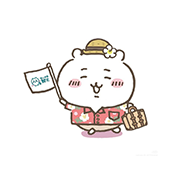
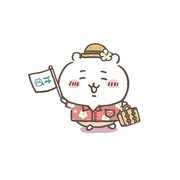
아이콘 변경

Changed region(s): [[0.1111, 0.1944, 0.8333, 0.7778], [0.3611, 0.3611, 0.5, 0.5]]

diff --git a/index.html b/index.html
@@ -10,7 +10,7 @@
 <meta name="description" content="2026년 11월 7일~10일 여섯 식구 첫 해외여행 · 대만 3박 4일 안내서">
 <link rel="manifest" href="manifest.webmanifest">
 <link rel="icon" href="icon-192.png">
-<link rel="apple-touch-icon" href="apple-touch-icon.png">
+<link rel="apple-touch-icon" href="apple-touch-icon.png?v=3">
 <meta property="og:type" content="website">
 <meta property="og:site_name" content="여섯 식구 첫 해외여행">
 <meta property="og:title" content="여섯 식구 첫 해외여행 · 대만 3박 4일 안내서">
@@ -1281,8 +1281,8 @@ function buildOvMap(solo,cap){const w=el('div','ovm'+(solo?' solo':''));w.datase
   /* pinch / drag zoom */
   let cq=0;const OVMAX=80,vp=w.querySelector('.ovm-vp'),inn=w.querySelector('.ovm-in'),svg=w.querySelector('.ovsvg');let sc=1,tx=0,ty=0;const pts=new Map();let pin=null,last=null,lastTap=0;
   const clamp=()=>{const W=vp.clientWidth,H=vp.clientHeight;sc=Math.min(OVMAX,Math.max(1,sc));tx=Math.min(0,Math.max(W-W*sc,tx));ty=Math.min(0,Math.max(H-H*sc,ty))};
-  let gest=false,csc=1,ctx=0,cty=0,wt=0;
-  const commit=()=>{const W=vp.clientWidth||1,H=vp.clientHeight||1;csc=sc;ctx=tx;cty=ty;inn.style.transform='';svg.setAttribute('viewBox',`${(-tx/(W*sc)*OVX.W).toFixed(2)} ${(-ty/(H*sc)*OVX.H).toFixed(2)} ${(OVX.W/sc).toFixed(2)} ${(OVX.H/sc).toFixed(2)}`);inn.style.setProperty('--k',(ovF(sc)/sc).toFixed(4));{const pu=W/OVX.W*sc;inn.style.setProperty('--ka',(9/(32*pu)).toFixed(5));inn.style.setProperty('--kl',(1/pu).toFixed(5));svg.querySelectorAll('g.r[data-len]').forEach(g=>{const L=g.dataset.len*pu;g.dataset.n=L<150?'1':L<360?'2':'3'})}inn.style.setProperty('--dq',Math.min(1,Math.max(0,(sc-22)/6)).toFixed(3));inn.classList.toggle('lo',!solo&&sc<1.8);inn.style.setProperty('--dz',Math.min(1,Math.max(0,(sc-2.6)/1.8)).toFixed(3));inn.style.setProperty('--dp',Math.min(1,Math.max(0,(sc-6)/2)).toFixed(3));inn.style.setProperty('--dw',Math.min(1,Math.max(0,(sc-11)/3)).toFixed(3));vp.classList.toggle('zoomed',sc>1.01);if(!cq){cq=requestAnimationFrame(()=>{cq=0;ovCollide(w,inn)})}};
+  let gest=false,csc=1,ctx=0,cty=0,wt=0,noCol=false;
+  const commit=()=>{const W=vp.clientWidth||1,H=vp.clientHeight||1;csc=sc;ctx=tx;cty=ty;inn.style.transform='';svg.setAttribute('viewBox',`${(-tx/(W*sc)*OVX.W).toFixed(2)} ${(-ty/(H*sc)*OVX.H).toFixed(2)} ${(OVX.W/sc).toFixed(2)} ${(OVX.H/sc).toFixed(2)}`);inn.style.setProperty('--k',(ovF(sc)/sc).toFixed(4));{const pu=W/OVX.W*sc;inn.style.setProperty('--ka',(9/(32*pu)).toFixed(5));inn.style.setProperty('--kl',(1/pu).toFixed(5));svg.querySelectorAll('g.r[data-len]').forEach(g=>{const L=g.dataset.len*pu;g.dataset.n=L<150?'1':L<360?'2':'3'})}inn.style.setProperty('--dq',Math.min(1,Math.max(0,(sc-22)/6)).toFixed(3));inn.classList.toggle('lo',!solo&&sc<1.8);inn.style.setProperty('--dz',Math.min(1,Math.max(0,(sc-2.6)/1.8)).toFixed(3));inn.style.setProperty('--dp',Math.min(1,Math.max(0,(sc-6)/2)).toFixed(3));inn.style.setProperty('--dw',Math.min(1,Math.max(0,(sc-11)/3)).toFixed(3));vp.classList.toggle('zoomed',sc>1.01);if(!noCol&&!cq){cq=requestAnimationFrame(()=>{cq=0;ovCollide(w,inn)})}};
   let raf=0;const apply=()=>{clamp();if(!gest){if(raf){cancelAnimationFrame(raf);raf=0}commit();return}if(raf)return;raf=requestAnimationFrame(()=>{raf=0;const s2=sc/csc;inn.style.transform=`translate(${(tx-s2*ctx).toFixed(1)}px,${(ty-s2*cty).toFixed(1)}px) scale(${s2.toFixed(4)})`})};
   const endGest=()=>{gest=false;inn.classList.remove('mv');if(raf){cancelAnimationFrame(raf);raf=0}commit()};
   const zoomAt=(f,cx,cy)=>{const ns=Math.min(OVMAX,Math.max(1,sc*f));tx=cx-(cx-tx)*ns/sc;ty=cy-(cy-ty)*ns/sc;sc=ns;apply()};
@@ -1306,10 +1306,10 @@ function buildOvMap(solo,cap){const w=el('div','ovm'+(solo?' solo':''));w.datase
   vp.addEventListener('wheel',e=>{if(!e.ctrlKey&&sc<=1.01&&e.deltaY>0)return;e.preventDefault();gest=true;inn.classList.add('mv');clearTimeout(wt);wt=setTimeout(endGest,180);const [x,y]=rel(e);zoomAt(e.deltaY<0?1.15:1/1.15,x,y)},{passive:false});
   w.querySelectorAll('.ovm-zb button').forEach(b=>b.addEventListener('click',()=>{const W=vp.clientWidth,H=vp.clientHeight;if(b.dataset.z==='0'){flyTo(home.s,W/2-home.cx*W*home.s,H/2-home.cy*H*home.s);return}if(+b.dataset.z>0)zoomAt(2,W/2,H/2);else zoomAt(1/2,W/2,H/2)}));
   let tw=0;const flyTo=(s1,x1,y1)=>{touched=true;const W=vp.clientWidth,H=vp.clientHeight;
-    const s0=sc,x0=tx,y0=ty;cancelAnimationFrame(tw);gest=true;inn.classList.add('mv');const T=performance.now(),D=650;
+    const s0=sc,x0=tx,y0=ty;cancelAnimationFrame(tw);const big=s1/s0>2.5||s0/s1>2.5;if(!big){gest=true;inn.classList.add('mv')}const T=performance.now(),D=big?750:650;
     const step=now=>{const k=Math.min(1,(now-T)/D),e=1-Math.pow(1-k,3);const ls=Math.exp(Math.log(s0)+(Math.log(s1)-Math.log(s0))*e);
-      const f=(ls-s0)/(s1-s0||1);sc=ls;tx=x0+(x1-x0)*(s1===s0?e:f);ty=y0+(y1-y0)*(s1===s0?e:f);clamp();const s2=sc/csc;inn.style.transform=`translate(${(tx-s2*ctx).toFixed(1)}px,${(ty-s2*cty).toFixed(1)}px) scale(${s2.toFixed(4)})`;
-      if(k<1)tw=requestAnimationFrame(step);else endGest()};tw=requestAnimationFrame(step)};
+      const f=(ls-s0)/(s1-s0||1);sc=ls;tx=x0+(x1-x0)*(s1===s0?e:f);ty=y0+(y1-y0)*(s1===s0?e:f);clamp();if(big){if(k<1){noCol=true;commit();noCol=false}else{gest=false;commit()}}else{const s2=sc/csc;inn.style.transform=`translate(${(tx-s2*ctx).toFixed(1)}px,${(ty-s2*cty).toFixed(1)}px) scale(${s2.toFixed(4)})`}
+      if(k<1)tw=requestAnimationFrame(step);else if(!big)endGest()};tw=requestAnimationFrame(step)};
   {const hb=w.querySelector('.ovm-h');if(hb)hb.addEventListener('click',()=>{const W=vp.clientWidth,H=vp.clientHeight;const [hx,hy]=ovP(...OVPT.hotel);const s1=6;flyTo(s1,W/2-hx/OVX.W*W*s1,H/2-hy/OVX.H*H*s1)})}
   return w}
 
@@ -1334,10 +1334,10 @@ function a2hBox(){const ua=navigator.userAgent,os=/iPhone|iPad|iPod/.test(ua)?(/
    <div class="lay menu kmenu kmenu-a"><b>새로고침</b><b>링크 복사</b><b>공유하기</b><b class="hl">다른 브라우저로 열기</b></div>
    <div class="lay ksh kmenu-i"><div class="apps"><span class="sf"><i></i>Safari</span><span class="cr"><i></i>Chrome</span><span><i></i>Whale</span><span><i></i>메시지</span><span><i></i>메일</span></div><b>복사</b><b>읽기 목록에 추가</b><b>더 보기</b></div>
    <div class="lay menu cmenu"><div class="ir"><span>→</span><span>☆</span><span>⤓</span><span>ⓘ</span><span>↻</span></div><b>새 탭</b><b>새 시크릿 탭</b><b>방문 기록</b><b>다운로드</b><b>북마크</b><b class="hl">홈 화면에 추가</b><b>설정</b></div>
-   <div class="lay shs"><div class="hd"><img src="icon-192.png?v=2" alt=""><div><b>여섯 식구 첫 해외여행</b><span>heon1031.github.io</span></div><em>✕</em></div><div class="row"><span><i></i>AirDrop</span><span><i></i>메시지</span><span><i></i>메일</span><span><i></i>메모</span></div><div class="grp"><b>복사</b><b>읽기 목록에 추가</b><b>북마크 추가</b><b class="hl">홈 화면에 추가 <em>⊞</em></b></div></div>
-   <div class="lay dlg"><div><b class="tt">홈 화면에 추가</b><div class="rw"><img src="icon-192.png?v=2" alt=""><span class="in">대만 여행</span></div><div class="bs"><span>취소</span><span>추가</span></div></div></div>
-   <div class="lay iadd" style="inset:0"><div class="nav"><span class="rb">✕</span><b>홈 화면에 추가</b><span class="rb ok">✓</span></div><div class="card"><img src="icon-192.png?v=2" alt=""><div><b>대만 여행</b><br><span style="color:#8B95A1">heon1031.github.io</span></div></div><div class="card tg"><span>웹 앱으로 열기</span><i></i></div></div>
-   <div class="sc home"><span><i></i>전화</span><span><i></i>카톡</span><span><i></i>카메라</span><span><i></i>사진</span><span><i></i>지도</span><span><i></i>날씨</span><span class="me"><img src="icon-192.png?v=2" alt="">대만 여행</span></div>
+   <div class="lay shs"><div class="hd"><img src="icon-192.png?v=3" alt=""><div><b>여섯 식구 첫 해외여행</b><span>heon1031.github.io</span></div><em>✕</em></div><div class="row"><span><i></i>AirDrop</span><span><i></i>메시지</span><span><i></i>메일</span><span><i></i>메모</span></div><div class="grp"><b>복사</b><b>읽기 목록에 추가</b><b>북마크 추가</b><b class="hl">홈 화면에 추가 <em>⊞</em></b></div></div>
+   <div class="lay dlg"><div><b class="tt">홈 화면에 추가</b><div class="rw"><img src="icon-192.png?v=3" alt=""><span class="in">대만 여행</span></div><div class="bs"><span>취소</span><span>추가</span></div></div></div>
+   <div class="lay iadd" style="inset:0"><div class="nav"><span class="rb">✕</span><b>홈 화면에 추가</b><span class="rb ok">✓</span></div><div class="card"><img src="icon-192.png?v=3" alt=""><div><b>대만 여행</b><br><span style="color:#8B95A1">heon1031.github.io</span></div></div><div class="card tg"><span>웹 앱으로 열기</span><i></i></div></div>
+   <div class="sc home"><span><i></i>전화</span><span><i></i>카톡</span><span><i></i>카메라</span><span><i></i>사진</span><span><i></i>지도</span><span><i></i>날씨</span><span class="me"><img src="icon-192.png?v=3" alt="">대만 여행</span></div>
    <i class="tap"></i></div>
   <ol class="a2h-steps"></ol>
   <p class="a2h-note">카톡 안에서는 추가가 안 돼요. 꼭 다른 브라우저로 열어서 추가해 주세요.</p>`;
@@ -1350,7 +1350,7 @@ function a2hBox(){const ua=navigator.userAgent,os=/iPhone|iPad|iPod/.test(ua)?(/
   return w}
 function openA2H(){openSheet({title:'바탕화면에 앱으로 추가하기',lbl:'1분이면 돼요',text:[]});const i=sheet.querySelector('.in');if(i)i.appendChild(a2hBox())}
 function homePanel(){const p=el('section','panel');
-  p.innerHTML=`<div class="hello"><span class="ver">v2.1</span><h1 class="h1m"><span>여섯 식구 첫 해외여행</span><img class="mascot" src="img/hello.png" alt="" onerror="this.remove()"></h1><p class="sub1">대만 3박 4일 안내서</p><p>2026년 11월 7일(토) ~ 10일(화)</p></div>${todayIdx>=0?`<button type="button" class="nowcard" id="nowCard"></button>`:''}<div class="ask" data-zh="日程">어느 날 일정을 볼까요?</div>`;
+  p.innerHTML=`<div class="hello"><span class="ver">v2.3</span><h1 class="h1m"><span>여섯 식구 첫 해외여행</span><img class="mascot" src="img/hello.png?v=2" alt="" onerror="this.remove()"></h1><p class="sub1">대만 3박 4일 안내서</p><p>2026년 11월 7일(토) ~ 10일(화)</p></div>${todayIdx>=0?`<button type="button" class="nowcard" id="nowCard"></button>`:''}<div class="ask" data-zh="日程">어느 날 일정을 볼까요?</div>`;
   const nc=p.querySelector('#nowCard');if(nc)nc.addEventListener('click',()=>show(DAYS[todayIdx].id));
   const g=el('div','daybtns');
   [['토','타이베이 300년, 하루의 시간 여행','용산사 · 중정기념당 · 101 야경'],['일','바다가 빚고, 탄광이 키운 북쪽 해안','예류 · 스펀 · 지우펀'],['월','타이야족의 온천 마을과 대만의 명동','우라이 꼬마기차와 폭포 · 시먼딩'],['화','다시 만날 날을 약속하며','공항에서 6명이 함께 마지막 아점']].forEach(([w,t,s],i)=>{
@@ -1446,7 +1446,6 @@ let cur=null;
 let homeY=0;function show(id,fromPop){if(!built[id])id='home';
   if(cur==='home'&&id!=='home')homeY=window.scrollY;
   {const sl=built[id].querySelector('.ovslot[data-f]');if(sl)sl.replaceWith(buildOvMap(sl.dataset.f,sl._cap))}
-  {const sm0=built[id].querySelector('.ovm.solo .ovsvg');if(sm0&&cur!==id)sm0.style.display='none'}
   panels.replaceChildren(built[id]);if(IOS)built[id].querySelectorAll('.ovm:not(.solo) .ovsvg').forEach(sv=>{sv.style.display='none';requestAnimationFrame(()=>{sv.style.display=''})});{const P=built[id];if(!RM&&P.animate)P.animate([{opacity:0,transform:'translateY(6px)'},{opacity:1,transform:'none'}],{duration:380,easing:'cubic-bezier(.25,.7,.3,1)'});const sm=P.querySelector('.ovm.solo');
     if(sm){const sv=sm.querySelector('.ovsvg');setTimeout(()=>{if(sv.style.display){sv.style.display='';if(!RM&&sv.animate)sv.animate([{opacity:0},{opacity:1}],{duration:200})}},RM?0:250)}}
   const home=id==='home';topbar.hidden=home;bottombar.hidden=home;document.querySelector('.wrap').classList.toggle('has-bottom',!home);

diff --git a/sw.js b/sw.js
@@ -1,5 +1,5 @@
 // 여섯 식구 첫 해외여행 · 오프라인 저장
-const CACHE='tw-v10';
+const CACHE='tw-v11';
 const PRE=["./", "index.html", "manifest.webmanifest", "icon-192.png", "apple-touch-icon.png", "img/101.jpg", "img/chiikawa.jpg", "img/cks.jpg", "img/day1.jpg", "img/day2.jpg", "img/day3.jpg", "img/day4.jpg", "img/donki.jpg", "img/f_beef.jpg", "img/f_boar.jpg", "img/f_boba.jpg", "img/f_charsiu.jpg", "img/f_court.jpg", "img/f_fruit.jpg", "img/f_gopchang.jpg", "img/f_hotpot.jpg", "img/f_kiki.jpg", "img/f_lurou.jpg", "img/f_mango.jpg", "img/f_peanut.jpg", "img/f_pepper.jpg", "img/f_ribs.jpg", "img/f_sausage.jpg", "img/f_shandi.jpg", "img/f_wing.jpg", "img/flight.jpg", "img/hero.jpg", "img/hello.png", "img/splash.png", "img/hotel.jpg", "img/jiufen.jpg", "img/longshan.jpg", "img/r_jiufen.jpg", "img/r_shifen.jpg", "img/r_wulai.jpg", "img/r_yehliu.jpg", "img/raohe.jpg", "img/redhouse.jpg", "img/shifen.jpg", "img/trolley.jpg", "img/wannian.jpg", "img/wulaifall.jpg", "img/wulaist.jpg", "img/wulaivil.jpg", "img/ximen.jpg", "img/ximenug.jpg", "img/yehliu.jpg", "og.jpg"];
 self.addEventListener('install',e=>{e.waitUntil(caches.open(CACHE).then(c=>Promise.all(PRE.map(u=>c.add(u).catch(()=>{})))).then(()=>self.skipWaiting()))});
 self.addEventListener('activate',e=>{e.waitUntil(caches.keys().then(ks=>Promise.all(ks.filter(k=>k!==CACHE).map(k=>caches.delete(k)))).then(()=>self.clients.claim()))});
